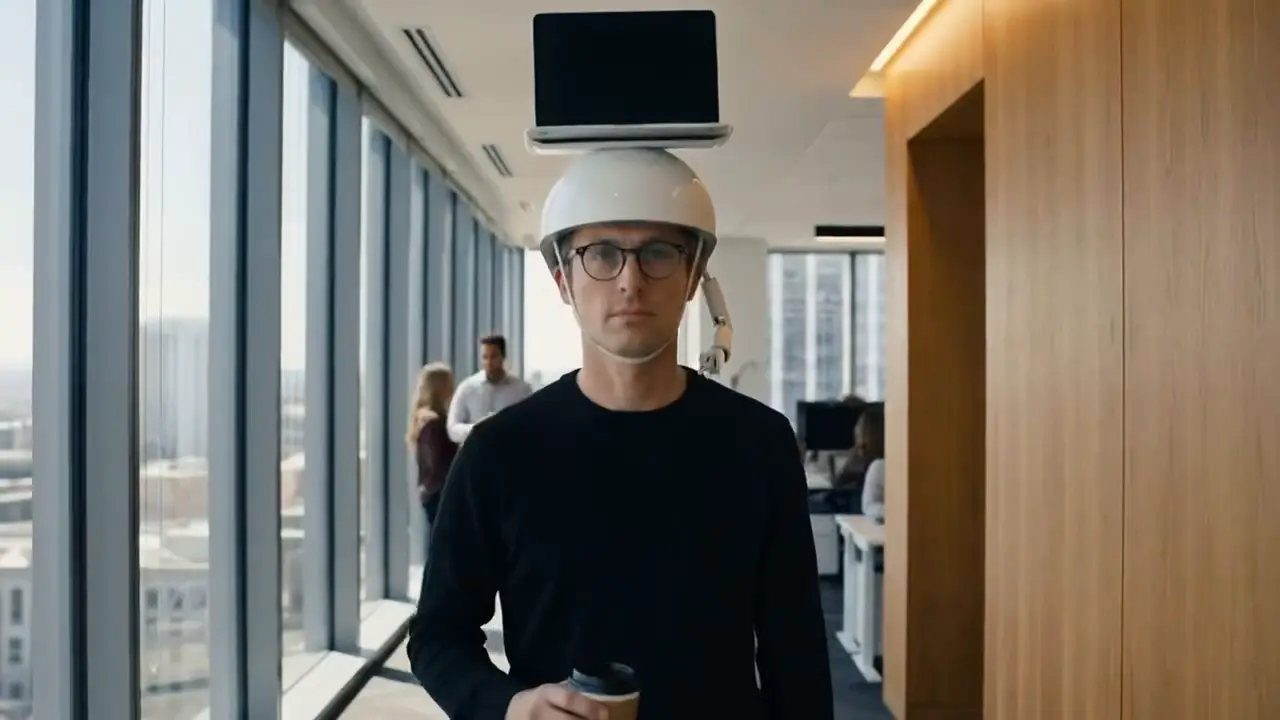
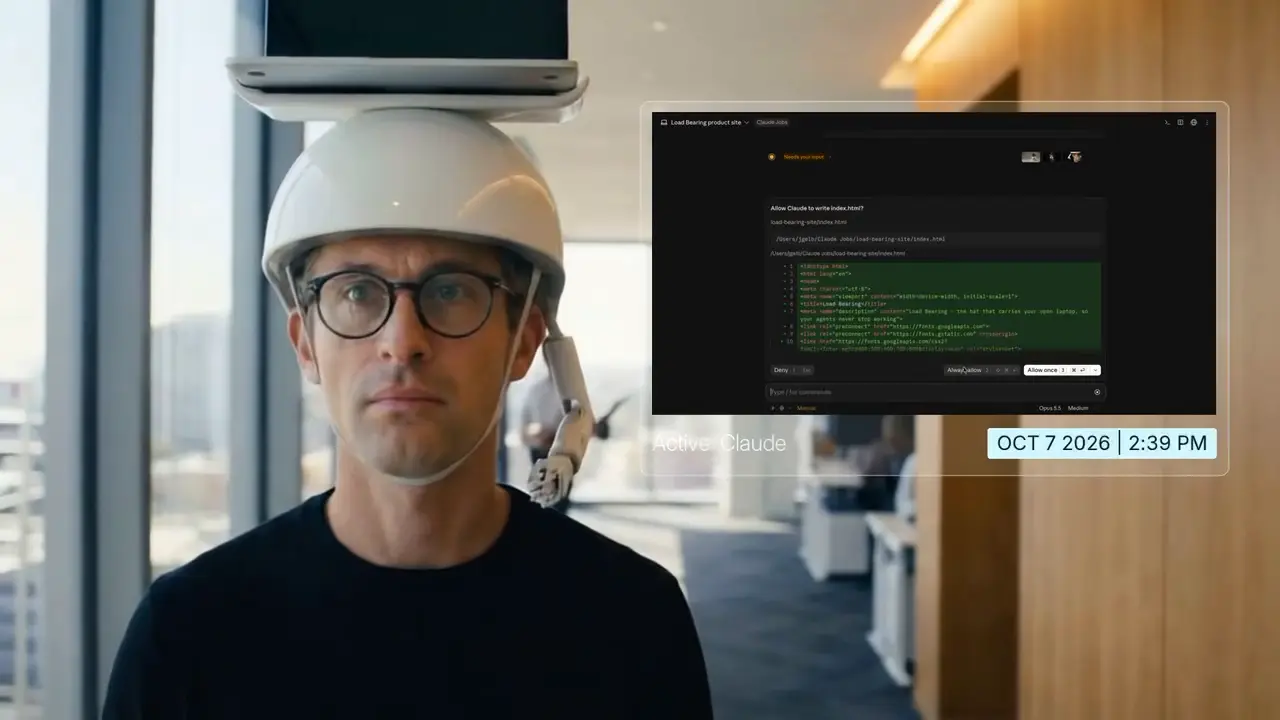
Hero: 3 unique shots with per-slide headlines; eyes-open Tap shot; fix Tap loop aspect (4:5 mobile); mobile one-screen sizing

diff --git a/index.html b/index.html
@@ -14,6 +14,7 @@ nav .po{color:var(--mut);font-size:14px}
 .slide{flex:0 0 100%;scroll-snap-align:start;height:100%}.slide picture{display:block;height:100%}.slide img{width:100%;height:100%;object-fit:cover;display:block}
 .shade{position:absolute;inset:auto 0 0 0;height:45%;background:linear-gradient(transparent,rgba(0,0,0,.72));pointer-events:none}
 .hero h1{position:absolute;left:0;right:0;bottom:40px;margin:0;color:#fff;text-shadow:0 2px 12px rgba(0,0,0,.5);padding:0 16px;pointer-events:none}
+.hero h1{display:grid}.hero h1 .ht{grid-area:1/1;opacity:0;transition:opacity .6s ease}@media(prefers-reduced-motion:reduce){.hero h1 .ht{transition:none}}.hero h1 .ht.on{opacity:1}.sr{position:absolute;width:1px;height:1px;overflow:hidden;clip:rect(0 0 0 0);white-space:nowrap}
 .arr{position:absolute;top:50%;transform:translateY(-50%);width:40px;height:40px;border-radius:50%;border:0;background:rgba(255,255,255,.85);font-size:24px;line-height:1;cursor:pointer;z-index:2}.prev{left:12px}.next{right:12px}
 .dots{position:absolute;bottom:14px;left:0;right:0;display:flex;justify-content:center;gap:8px}.dots button{width:8px;height:8px;border-radius:50%;border:0;padding:0;background:rgba(255,255,255,.5);cursor:pointer}.dots button.on{background:#fff;width:22px;border-radius:4px}
 .hero+.lede,.lede{margin-top:24px}
@@ -27,7 +28,7 @@ nav .po{color:var(--mut);font-size:14px}
 .co text{fill:#fff;font:700 20px Inter,system-ui,sans-serif;paint-order:stroke;stroke:#000;stroke-width:5px;stroke-linejoin:round}
 .steps .part{min-height:55vh;display:flex;flex-direction:column;justify-content:center;opacity:.3;transition:opacity .4s;border-top:0}
 .steps .part.on{opacity:1}.steps .part h3{color:var(--ink);font-size:22px}.steps .part p{font-size:18px}
-@media(max-width:760px){.anno{grid-template-columns:1fr;gap:0}.figwrap{top:60px;z-index:3;padding:8px 0 20px;box-shadow:0 12px 12px -4px #fff}.fig{width:min(100%,calc(46vh*640/700));margin:0 auto}.steps{padding-bottom:30vh}.steps .part{min-height:34vh;text-align:center;justify-content:flex-start;padding-top:2vh;opacity:0}.steps .part.on{opacity:1}}
+@media(max-width:760px){.anno{grid-template-columns:1fr;gap:0}.figwrap{top:60px;z-index:3;padding:8px 0 20px;box-shadow:0 12px 12px -4px #fff}.fig{width:min(100%,calc(46vh*640/700));margin:0 auto}.steps{padding-bottom:30vh}.tapgrid .tapgif img{aspect-ratio:4/5}.steps .part{min-height:34vh;text-align:center;justify-content:flex-start;padding-top:2vh;opacity:0}.steps .part.on{opacity:1}}
 @media(prefers-reduced-motion:reduce){.track{scroll-behavior:auto}.co,.co line,.co circle{transition:none}}
 h1{font-size:clamp(36px,6vw,64px);letter-spacing:-.03em;text-align:center;margin:40px 0 8px;line-height:1.05}
 .lede{text-align:center;max-width:640px;margin:0 auto;color:#333;font-size:18px}
@@ -37,7 +38,7 @@ section{padding:72px 0}.eyebrow{font-size:12px;letter-spacing:.18em;font-weight:
 h2{font-size:clamp(30px,4.5vw,48px);letter-spacing:-.03em;margin:8px 0 12px;line-height:1.1}.sub{color:#333;font-size:18px;max-width:640px}
 .parts{display:grid;grid-template-columns:1fr 1fr;gap:40px;align-items:start;margin-top:32px}.parts img{width:100%;border-radius:14px}
 .part{border-top:1.5px solid var(--ink);padding:14px 0 18px}.part h3{margin:0;font-size:17px;color:#888}.part p{margin:2px 0 0}
-.tapgrid{display:grid;grid-template-columns:1fr 1fr;gap:40px;align-items:center}.tapgrid img{display:block;width:100%;border-radius:14px}
+.tapgrid{display:grid;grid-template-columns:1fr 1fr;gap:40px;align-items:center}.tapgif img{height:auto;aspect-ratio:16/9;object-fit:cover}.tapgrid img{display:block;width:100%;border-radius:14px}
 .prompt{font-family:ui-monospace,Menlo,monospace;border:1px solid var(--line);border-radius:12px;padding:18px;margin-top:24px;font-size:14px;color:#555}
 .prompt b{color:#111}.btns{display:flex;gap:8px;margin-top:12px;flex-wrap:wrap}.btns button{font:inherit;border:1px solid #bbb;background:#fff;border-radius:6px;padding:4px 12px;cursor:pointer}
 .btns .al{border-color:#888;color:#aaa;animation:p 2.4s infinite}@keyframes p{50%{background:#eef5f1;color:var(--acc)}}
@@ -52,19 +53,27 @@ h2{font-size:clamp(30px,4.5vw,48px);letter-spacing:-.03em;margin:8px 0 12px;line
 details{border-bottom:1px solid var(--line);padding:18px 0}summary{list-style:none;cursor:pointer;font-weight:600;display:flex;justify-content:space-between}summary::after{content:"+";font-weight:400}details[open] summary::after{content:"–"}details p{color:#444;margin:10px 0 0}
 footer{padding:40px 0;color:var(--mut);font-size:13px;text-align:center;border-top:1px solid var(--line)}
 @media(max-width:760px){nav ul{display:none}.stats,.parts,.tapgrid,.quotes{grid-template-columns:1fr}.stats{grid-template-columns:1fr 1fr}section{padding:48px 0}.hero{aspect-ratio:4/5}.hero .arr,.lifecar .arr{display:none}.lifecar .card{flex-basis:78%}}
+@media(max-width:760px){
+.hero{aspect-ratio:auto;height:min(calc((100vw - 48px)*1.25),54svh)}
+.slide img{object-position:50% 30%}.hero h1{font-size:30px;bottom:34px}
+section{padding:36px 0}#life h2{margin-top:0}
+.lifecar{margin-top:16px}.lifecar .card img{aspect-ratio:auto;height:min(40svh,calc(78vw*1.25));object-position:50% 22%}.lifecar .card h3{margin:8px 0 2px}
+.tapgrid{gap:16px}.tapgrid .tapgif img{aspect-ratio:auto;height:min(52svh,calc((100vw - 48px)*1.25));object-position:50% 25%}
+.fig{width:min(100%,calc(38svh*640/700))}.steps .part{min-height:30svh}
+}
 </style></head><body>
 <nav><div class="w"><a class="logo" href="#">Load<span>Bearing</span></a><ul><li><a href="#design">Design</a></li><li><a href="#tap">The Tap</a></li><li><a href="#life">Life</a></li><li><a href="#faq">FAQ</a></li></ul><a class="po" href="#preorder">Pre-order</a></div></nav>
 <main class="w">
-<div class="hero car" id="hero" aria-roledescription="carousel" aria-label="Shots from the film"><div class="track" tabindex="0"><div class="slide"><picture><source media="(max-width:760px)" srcset="assets/hero-studio-m.webp"><img src="assets/hero-studio.webp" alt="Load Bearing in Gloss White" width="1280" height="720" fetchpriority="high"></picture></div><div class="slide"><picture><source media="(max-width:760px)" srcset="assets/hero-wearing-m.webp"><img src="assets/hero-wearing.webp" alt="Man wearing Load Bearing with a laptop on top" width="1280" height="720" loading="lazy"></picture></div><div class="slide"><picture><source media="(max-width:760px)" srcset="assets/hero-lid-m.webp"><img src="assets/hero-lid.webp" alt="Hands on a laptop lid" width="1280" height="720" loading="lazy"></picture></div><div class="slide"><picture><source media="(max-width:760px)" srcset="assets/hero-tap-m.webp"><img src="assets/hero-tap.webp" alt="The Tap, waiting for a permission prompt" width="1280" height="720" loading="lazy"></picture></div><div class="slide"><picture><source media="(max-width:760px)" srcset="assets/hero-glow-m.webp"><img src="assets/hero-glow.webp" alt="Load Bearing, glowing" width="1280" height="720" loading="lazy"></picture></div></div>
-<div class="shade"></div><h1>Never close the lid again</h1>
-<button class="arr prev" aria-label="Previous">‹</button><button class="arr next" aria-label="Next">›</button><div class="dots"><button aria-label="Shot 1"></button><button aria-label="Shot 2"></button><button aria-label="Shot 3"></button><button aria-label="Shot 4"></button><button aria-label="Shot 5"></button></div></div>
+<div class="hero car" id="hero" aria-roledescription="carousel" aria-label="Shots from the film"><div class="track" tabindex="0"><div class="slide" role="group" aria-label="1 of 3"><picture><source media="(max-width:760px)" srcset="assets/hero-studio-m.webp"><img src="assets/hero-studio.webp" alt="Load Bearing in Gloss White" width="1280" height="720" fetchpriority="high"></picture></div><div class="slide" role="group" aria-label="2 of 3"><picture><source media="(max-width:760px)" srcset="assets/hero-wearing-m.webp"><img src="assets/hero-wearing.webp" alt="Man wearing Load Bearing with a laptop on top" width="1280" height="720" loading="lazy"></picture></div><div class="slide" role="group" aria-label="3 of 3"><picture><source media="(max-width:760px)" srcset="assets/hero-tap-m.webp"><img src="assets/hero-tap.webp" alt="The Tap tapping a shoulder while a permission prompt waits" width="1280" height="720" loading="lazy"></picture></div></div>
+<div class="shade"></div><h1 class="hl"><span class="sr">Load Bearing. </span><span class="ht on" data-i="0">Never close the lid again</span><span class="ht" data-i="1" aria-hidden="true">Your agents never stop. Neither do you</span><span class="ht" data-i="2" aria-hidden="true">It taps. You approve. Everyone moves on</span></h1><p class="sr" aria-live="polite" id="hlive"></p>
+<button class="arr prev" aria-label="Previous">‹</button><button class="arr next" aria-label="Next">›</button><div class="dots"><button aria-label="Shot 1"></button><button aria-label="Shot 2"></button><button aria-label="Shot 3"></button></div></div>
 <p class="lede">Closing your laptop pauses your agents. Leaving it on your desk means walking back to it every four minutes to click a button. Load Bearing ends the choice</p>
 <div class="stats"><div><b>0</b><span>lids closed</span></div><div><b>360°</b><span>screen visibility, for you and everyone behind you</span></div><div><b>2.1 kg</b><span>max load, tested on volunteers</span></div><div><b>∞</b><span>tokens per walk to the coffee machine</span></div></div>
 <section id="design"><div class="eyebrow">Design</div><h2>Engineered from the head up</h2><p class="sub">Five parts, one purpose: keep a 14-inch laptop level, open and online while you live your life underneath it</p>
 <div class="anno"><div class="figwrap"><div class="fig"><img src="assets/design-exploded.webp" alt="Exploded view of Load Bearing" width="640" height="700" loading="lazy"><svg viewBox="0 0 640 700" preserveAspectRatio="xMidYMid meet" aria-hidden="true"><g class="co" data-i="0"><line x1="410" y1="228" x2="590" y2="152"/><circle cx="410" cy="228" r="9"/><text x="628" y="140" text-anchor="end">Self-levelling tray</text></g><g class="co" data-i="1"><line x1="330" y1="340" x2="580" y2="300"/><circle cx="330" cy="340" r="9"/><text x="628" y="288" text-anchor="end">Monocoque dome</text></g><g class="co" data-i="2"><line x1="330" y1="440" x2="580" y2="410"/><circle cx="330" cy="440" r="9"/><text x="628" y="398" text-anchor="end">Memory-foam liner</text></g><g class="co" data-i="3"><line x1="258" y1="590" x2="60" y2="640"/><circle cx="258" cy="590" r="9"/><text x="16" y="668" text-anchor="start">Adjustable chin strap</text></g><g class="co" data-i="4"><line x1="315" y1="525" x2="110" y2="470"/><circle cx="315" cy="525" r="9"/><text x="16" y="458" text-anchor="start">Logic board</text></g></svg></div></div><div class="steps"><div class="part" data-i="0"><h3>Self-levelling tray</h3><p>A two-axis gimbal keeps the keyboard flat while you nod, sigh or look up from your phone</p></div><div class="part" data-i="1"><h3>Monocoque dome</h3><p>One piece of gloss polymer, load rated to a mid-size workstation and one cat</p></div><div class="part" data-i="2"><h3>Memory-foam liner</h3><p>Contoured for all-day wear and a moderate amount of thinking</p></div><div class="part" data-i="3"><h3>Adjustable chin strap</h3><p>Because gravity hasn't shipped an update in a while</p></div><div class="part" data-i="4"><h3>Logic board</h3><p>Watches your terminal so you don't have to. Powers The Tap</p></div></div></div></section>
 <section id="tap"><div class="tapgrid"><div><div class="eyebrow">Optional accessory</div><h2>The Tap</h2><p class="sub">A USB robot arm that reaches down and taps your shoulder the moment an agent stops to ask permission. You look up, say "always allow", and get on with your day</p>
 <div class="prompt">Allow Claude to run <b>npm test</b>?<div class="btns"><button>Yes</button><button class="al">Yes, always allow</button><button>No</button></div></div></div>
-<picture class="tapgif"><source media="(prefers-reduced-motion: reduce)" srcset="assets/tap-poster.jpg"><source type="image/webp" srcset="assets/tap-720.webp"><source media="(max-width:760px)" srcset="assets/tap-480.gif"><img src="assets/tap-720.gif" alt="The Tap reaches down and taps his shoulder when Claude needs permission" width="720" height="406" loading="lazy"></picture></div></section>
+<picture class="tapgif"><source media="(max-width:760px) and (prefers-reduced-motion: reduce)" srcset="assets/tap-poster-m.jpg" width="480" height="600"><source media="(prefers-reduced-motion: reduce)" srcset="assets/tap-poster.jpg" width="720" height="405"><source media="(max-width:760px)" type="image/webp" srcset="assets/tap-m.webp" width="480" height="600"><source media="(max-width:760px)" srcset="assets/tap-m.gif" width="480" height="600"><source type="image/webp" srcset="assets/tap-720.webp" width="720" height="405"><img src="assets/tap-720.gif" alt="The Tap reaches down and taps his shoulder when Claude needs permission" width="720" height="405" loading="lazy"></picture></div></section>
 <section id="life" class="center"><h2>Built for the in-between</h2><p class="sub">The parts of your day where you used to be unproductive</p>
 <div class="lifecar car" id="lifecar"><div class="cards track" tabindex="0"><div class="card"><img src="assets/life-commute.webp" alt="The commute" width="480" height="600" loading="lazy"><h3>The commute</h3><p>Four stops. One database migration</p></div><div class="card"><img src="assets/life-coffee.webp" alt="The coffee run" width="480" height="600" loading="lazy"><h3>The coffee run</h3><p>Your refactor keeps going. Your barista has questions</p></div><div class="card"><img src="assets/life-dog.webp" alt="The dog walk" width="480" height="600" loading="lazy"><h3>The dog walk</h3><p>Three PRs reviewed before the second lamppost. The dog is used to it now</p></div><div class="card"><img src="assets/life-dinner.webp" alt="Dinner" width="480" height="600" loading="lazy"><h3>Dinner</h3><p>The sauce is reducing. So is your backlog</p></div><div class="card"><img src="assets/life-legday.webp" alt="Leg day" width="480" height="600" loading="lazy"><h3>Leg day</h3><p>Mile two. Ticket forty-seven</p></div><div class="card"><img src="assets/life-break.webp" alt="The quick break" width="480" height="600" loading="lazy"><h3>The quick break</h3><p>We tested waist-up only. Everything we tested went fine</p></div></div><button class="arr prev" aria-label="Previous">‹</button><button class="arr next" aria-label="Next">›</button></div></section>
 <section><h2 class="center">People are talking. Mostly about the hat</h2><div class="quotes">
@@ -90,7 +99,8 @@ const idx=()=>Math.round(t.scrollLeft/items[0].offsetWidth);
 const go=i=>{i=(i+items.length)%items.length;t.scrollTo({left:items[i].offsetLeft-t.offsetLeft,behavior:rm?'auto':'smooth'})};
 root.querySelector('.prev').onclick=()=>go(idx()-1);root.querySelector('.next').onclick=()=>go(idx()+1);
 dots.forEach((d,i)=>d.onclick=()=>go(i));
-const mark=()=>dots.forEach((d,i)=>d.classList.toggle('on',i===idx()));t.addEventListener('scroll',mark,{passive:true});mark();
+const hts=[...root.querySelectorAll('.ht')],live=root.querySelector('[aria-live]');let last=0;
+const mark=()=>{const k=idx();dots.forEach((d,i)=>d.classList.toggle('on',i===k));if(hts.length&&k!==last){last=k;hts.forEach((s,i)=>{s.classList.toggle('on',i===k);i===k?s.removeAttribute('aria-hidden'):s.setAttribute('aria-hidden','true')});if(live)live.textContent=hts[k].textContent}};t.addEventListener('scroll',mark,{passive:true});mark();
 if(auto&&!rm){let paused=false,timer;const tick=()=>{if(!paused&&!document.hidden)go(idx()+1)};timer=setInterval(tick,4000);
 ['mouseenter','focusin','touchstart','pointerdown'].forEach(e=>root.addEventListener(e,()=>paused=true,{passive:true}));
 root.addEventListener('mouseleave',()=>paused=false);}}
